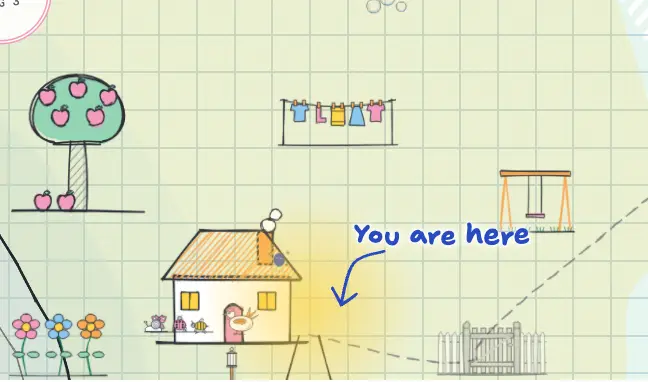
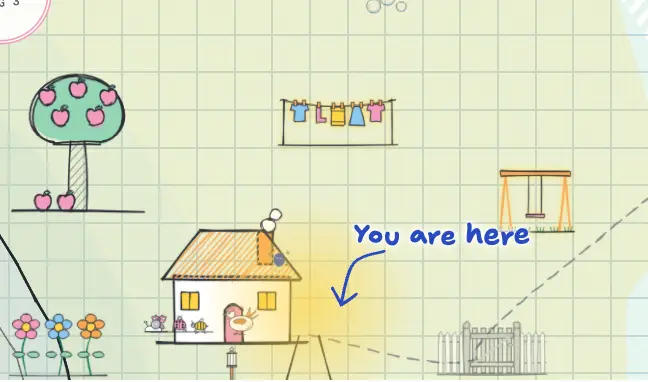
Restore three parent world cards and refresh site images

Changed region(s): [[0.4321, 0.2592, 0.6173, 0.3455], [0.7716, 0.4319, 0.8951, 0.6047], [0.7716, 0.5183, 0.8333, 0.6047]]

diff --git a/tools/scripts/site-pictures.ts b/tools/scripts/site-pictures.ts
@@ -1,14 +1,14 @@
 // `npm run site:pictures`: the site's pictures of the sample child's map (apps/site/page.tsx), which its
-// map sections show in place of a live map: the journey at each stop, each card's place and the
-// journal's. It opens the site with `?livePictures`, where those sections draw the live map, pictures
+// map sections show in place of a live map: the journey at each stop and each parent card's place. It opens the site with `?livePictures`, where those sections draw the live map, pictures
 // each at a wide screen's size and a phone's, and writes the WebP files to apps/site/pictures/ and
 // their list to apps/site/pictures.ts. Run it with `npm run dev` up when the map or the sample changes.
 
-import { mkdirSync, rmSync, writeFileSync } from "node:fs";
+import { mkdirSync, readdirSync, rmSync, writeFileSync } from "node:fs";
 import { join } from "node:path";
 import { chromium, type Locator, type Page } from "@playwright/test";
 import { format, resolveConfig } from "prettier";
 
+const cardsOnly = process.argv.includes("--cards");
 const BASE = process.env.PICTURES_BASE ?? "http://localhost:8500";
 const ROOT = join(import.meta.dirname, "..", "..");
 const OUT = join(ROOT, "apps/site/pictures");
@@ -75,17 +75,24 @@ async function picture(page: Page, box: Locator): Promise<Buffer> {
     return Buffer.from(encoded, "base64");
 }
 
+const existingJourney = (size: keyof typeof SIZES): string[] =>
+    readdirSync(OUT)
+        .filter((file) => file.startsWith(`journey-${size}-`) && file.endsWith(".webp"))
+        .sort((a, b) => a.localeCompare(b, undefined, { numeric: true }));
+
 async function main(): Promise<void> {
     const browser = await chromium.launch({
         channel: "chrome",
         args: ["--disable-component-update"],
     });
-    rmSync(OUT, { recursive: true, force: true });
+    if (!cardsOnly) rmSync(OUT, { recursive: true, force: true });
     mkdirSync(OUT, { recursive: true });
-    const made: Record<"journey" | "cards" | "journal", Record<keyof typeof SIZES, string[]>> = {
-        journey: { wide: [], narrow: [] },
+    const made: Record<"journey" | "cards", Record<keyof typeof SIZES, string[]>> = {
+        journey: {
+            wide: cardsOnly ? existingJourney("wide") : [],
+            narrow: cardsOnly ? existingJourney("narrow") : [],
+        },
         cards: { wide: [], narrow: [] },
-        journal: { wide: [], narrow: [] },
     };
     const keep = (
         kind: keyof typeof made,
@@ -107,25 +114,30 @@ async function main(): Promise<void> {
                 reducedMotion: "reduce",
             });
             const page = await context.newPage();
-            await page.goto(`${BASE}/home?livePictures&mapDebug`);
+            await page.goto(`${BASE}/home?livePictures&mapDebug`, { timeout: 180_000 });
+            await page
+                .locator(".site-bar div.bar-mark-bird")
+                .waitFor({ state: "attached", timeout: 120_000 });
             // the pictures are of the map alone: the site's bar, which stays at the window's top, and
             // the boxes' own edges, which the page draws round each picture, are left out
             await page.addStyleTag({
                 content:
                     ".site-bar,header{visibility:hidden!important}.site-window,.site-pic{border:0!important;border-radius:0!important}",
             });
-            const journey = page.locator(".site-journey-map .site-window");
-            await journey.scrollIntoViewIfNeeded();
-            await settled(page, journey);
-            const stops = await page.locator(".site-step").count();
-            for (let i = 0; i < stops; i++) {
-                await page.evaluate((at) => {
-                    const go: unknown = Reflect.get(window, "siteStop");
-                    if (typeof go === "function") Reflect.apply(go, window, [at]);
-                }, i);
+            if (!cardsOnly) {
+                const journey = page.locator(".site-journey-map .site-window");
                 await journey.scrollIntoViewIfNeeded();
                 await settled(page, journey);
-                keep("journey", size, i, await picture(page, journey));
+                const stops = await page.locator(".site-step").count();
+                for (let i = 0; i < stops; i++) {
+                    await page.evaluate((at) => {
+                        const go: unknown = Reflect.get(window, "siteStop");
+                        if (typeof go === "function") Reflect.apply(go, window, [at]);
+                    }, i);
+                    await journey.scrollIntoViewIfNeeded();
+                    await settled(page, journey);
+                    keep("journey", size, i, await picture(page, journey));
+                }
             }
             const cards = page.locator(".site-card .site-pic");
             for (let i = 0; i < (await cards.count()); i++) {
@@ -134,10 +146,6 @@ async function main(): Promise<void> {
                 await settled(page, card);
                 keep("cards", size, i, await picture(page, card));
             }
-            const journal = page.locator(".site-lesson .site-pic").first();
-            await journal.scrollIntoViewIfNeeded();
-            await settled(page, journal);
-            keep("journal", size, 0, await picture(page, journal));
             await context.close();
         }
     } finally {
@@ -154,11 +162,9 @@ async function main(): Promise<void> {
 export const PICTURES: {
     journey: { wide: readonly string[]; narrow: readonly string[] };
     cards: { wide: readonly string[]; narrow: readonly string[] };
-    journal: { wide: readonly string[]; narrow: readonly string[] };
 } = {
     journey: ${kind("journey")},
     cards: ${kind("cards")},
-    journal: ${kind("journal")},
 };
 `;
     writeFileSync(

diff --git a/apps/site/pictures.ts b/apps/site/pictures.ts
@@ -4,7 +4,6 @@
 export const PICTURES: {
     journey: { wide: readonly string[]; narrow: readonly string[] };
     cards: { wide: readonly string[]; narrow: readonly string[] };
-    journal: { wide: readonly string[]; narrow: readonly string[] };
 } = {
     journey: {
         wide: [
@@ -17,11 +16,15 @@ export const PICTURES: {
         ],
     },
     cards: {
-        wide: [new URL("./pictures/cards-wide-0.webp", import.meta.url).href],
-        narrow: [new URL("./pictures/cards-narrow-0.webp", import.meta.url).href],
-    },
-    journal: {
-        wide: [new URL("./pictures/journal-wide-0.webp", import.meta.url).href],
-        narrow: [new URL("./pictures/journal-narrow-0.webp", import.meta.url).href],
+        wide: [
+            new URL("./pictures/cards-wide-0.webp", import.meta.url).href,
+            new URL("./pictures/cards-wide-1.webp", import.meta.url).href,
+            new URL("./pictures/cards-wide-2.webp", import.meta.url).href,
+        ],
+        narrow: [
+            new URL("./pictures/cards-narrow-0.webp", import.meta.url).href,
+            new URL("./pictures/cards-narrow-1.webp", import.meta.url).href,
+            new URL("./pictures/cards-narrow-2.webp", import.meta.url).href,
+        ],
     },
 };

diff --git a/school/worlds/__tests__/sample.test.ts b/school/worlds/__tests__/sample.test.ts
@@ -157,3 +157,14 @@ test("the views the site's pictures share: a map at each stop, the roll of yeste
     assert.equal(visit.grade, 1);
     assert.ok(Object.keys(visit.progress.done).length > 0, "the visit carries the sample's record");
 });
+
+test("the parent cards retain three distinct worlds when Kindergarten has only one", () => {
+    const corpus = corpusFrom([...lessonsOf(0), ...lessonsOf(1), ...lessonsOf(2)], STARTED);
+    const child = sampleChild(corpus, worldOf);
+    assert.equal(child.first.grade, 0);
+    assert.equal(child.cards.length, 3);
+    const places = child.cards.map((card) => child.now.places[card.place]);
+    assert.equal(new Set(places.map((place) => place?.world)).size, 3);
+    assert.equal(places[0]?.grade, 0);
+    assert.ok(places.slice(1).every((place) => place?.state === "ahead"));
+});

diff --git a/school/worlds/sample.ts b/school/worlds/sample.ts
@@ -424,8 +424,10 @@ export function sampleChild(corpus: Corpus, worldOf: (id: string) => Applied): S
         return out;
     };
 
+    const cardWorlds = new Set<string>();
     const cards: Card[] = now.places.flatMap((p, i) => {
-        if (p.grade !== first.grade) return [];
+        if (cardWorlds.size === 3 || cardWorlds.has(p.world)) return [];
+        cardWorlds.add(p.world);
         const w = worldOf(p.world);
         return [
             {

diff --git a/tools/e2e/site/public.e2e.ts b/tools/e2e/site/public.e2e.ts
@@ -38,6 +38,7 @@ test.describe("public learning pages without JavaScript", () => {
             "href",
             "https://lumischool.ai/",
         );
+        await expect(page.locator("#you .site-card")).toHaveCount(3);
         await expect(page.locator(".site-samples > a")).toHaveCount(3);
         await page.locator(".site-samples > a").first().click();
         await expect(page.getByRole("heading", { level: 1 })).toHaveText("Counting to five");
